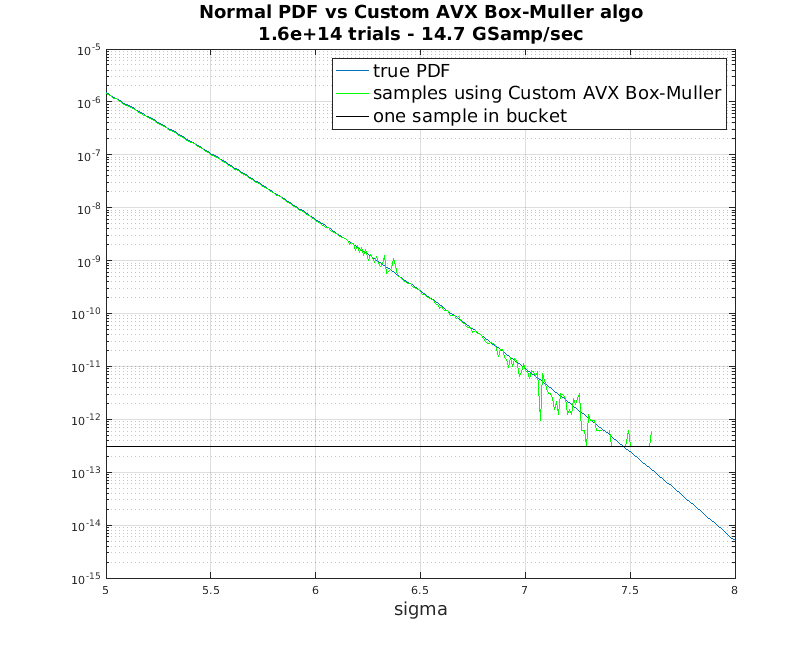
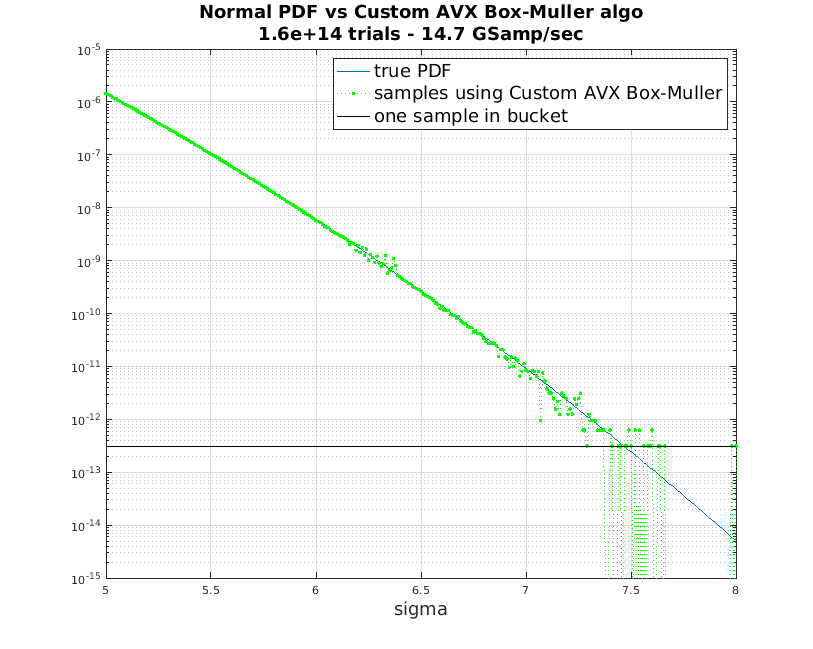
docs and link fixes

diff --git a/docs/WGN/norm.dist.methods.html b/docs/WGN/norm.dist.methods.html
@@ -5,10 +5,10 @@
 	<title></title>
 	<meta name="generator" content="LibreOffice 6.4.7.2 (Linux)"/>
 	<meta name="created" content="2021-04-27T14:33:22.598835411"/>
-	<meta name="changed" content="2021-04-28T09:24:43.174568441"/>
+	<meta name="changed" content="2021-04-28T14:00:36.343767091"/>
 	<style type="text/css">
 		@page { size: 8.5in 11in; margin-left: 0.79in; margin-right: 0.39in; margin-top: 0.39in; margin-bottom: 0.39in }
-		p { margin-bottom: 0.1in; line-height: 115%; background: transparent }
+		p { margin-bottom: 0.1in; background: transparent; line-height: 115%; background: transparent }
 		a:link { color: #000080; so-language: zxx; text-decoration: underline }
 		a:visited { color: #800000; so-language: zxx; text-decoration: underline }
 	</style>
@@ -87,14 +87,15 @@ rarely. Results are shown below:</p>
 
 </p>
 <p style="margin-bottom: 0in">Here, we are definitely hitting the
-point where some “buckets” only have 1 sample in them, which
-occurs whenever the green line touches the black line. Given enough
-time, one could increase the number of trials beyond 1.6e14 if
+point where some “buckets” in green only have 1 sample in them,
+which occurs whenever a green dot is on the black line. Given enough
+time, the number of trials could be increased beyond 1.6e14 if
 desired. There is also a bit of undulation near 6.3 sigma. This is
 where the original 32-bit PRNG is used, before transitioning to
-64-bit. One could push this back a bit to remove this if desired.
-Overall, the 14.7 Gsamp/sec is almost 3x faster than the 5.3
-Gsamp/sec observed for the MKL function.</p>
+64-bit. This could be alleviated by setting the threshold (currently
+less than 8) to a higher number for using 64-bit integers. Overall,
+the 14.7 Gsamp/sec is almost 3x faster than the 5.3 Gsamp/sec
+observed for the MKL function.</p>
 <p style="margin-bottom: 0in">The end result is fast generation of
 WGN samples with a very high maximum sigma.</p>
 <p style="margin-bottom: 0in"><br/>

diff --git a/README.md b/README.md
@@ -1,10 +1,10 @@
 # simd-fecfun: Using SIMD to accelerate FEC-related functions
 
-This is a set of functions for forward error correction (FEC).  The code uses Agner Fog's vector class library (https://github.com/vectorclass)
+This is a set of functions for forward error correction (FEC).  The code uses Agner Fog's vector class library (https://github.com/vectorclass - TBD: add as git submodule)
 
 This is definitely a work-in-progess, for a more polished FEC project, one might want to look at aff3ct (https://github.com/aff3ct/aff3ct).  The key difference here is to push the simulation and decoding rate higher.
 
 Key Components:
-1. [WGN generation](https://github.com/tomt-1/simd-fecfun/tree/main/doc/WGN/norm.dist.methods.html) 
+1. [WGN generation](https://tomt-1.github.io/simd-fecfun/WGN/norm.dist.methods.html)
 2. LDPC Encoding (TBD)
 3. LDPC Decoding (TBD) 
